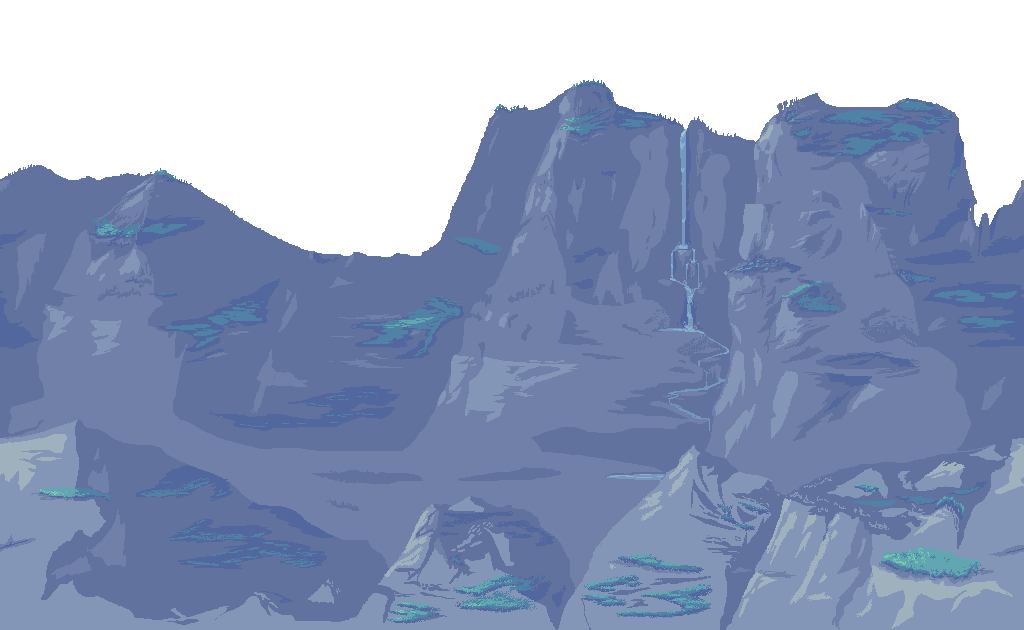
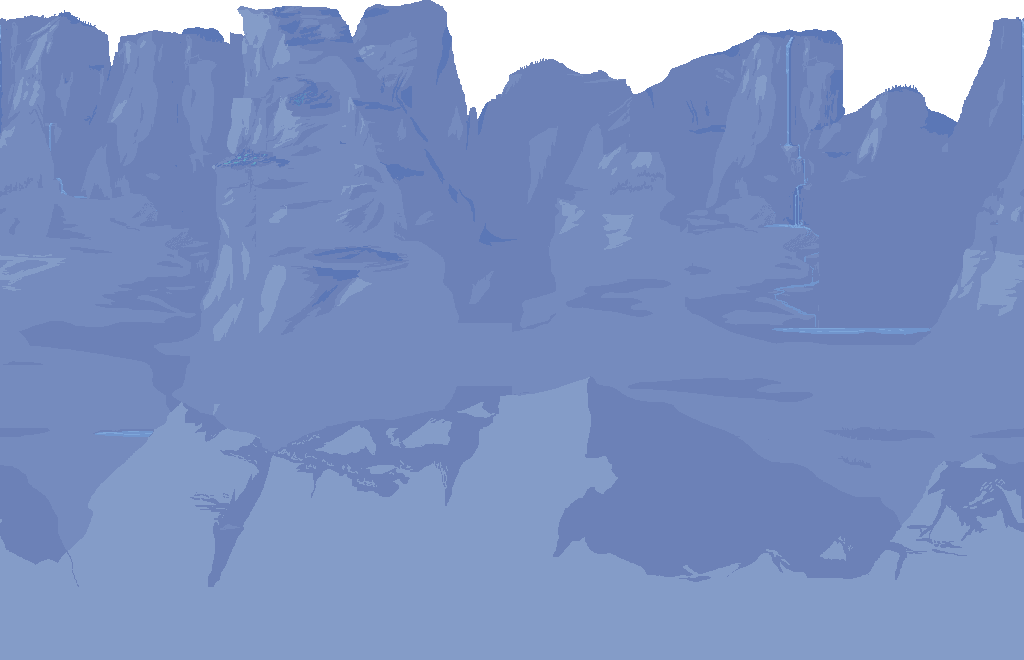
Fix backgrounds.

diff --git a/source/main.py b/source/main.py
@@ -623,13 +623,13 @@ def draw_interactive_block_hover() -> None:
 def draw_menu_background() -> None:
 	menu_background_speed = 0
 	for background in range(len(menu_backgrounds[menu_background_number])):
-		menu_background_width = menu_surfaces[background].get_width()
-		menu_background_height = menu_surfaces[background].get_height()
+		menu_background_width = menu_surfaces[background][int(menu_backgrounds[menu_background_number][background]["frame"] / menu_backgrounds[menu_background_number][background]["delay"])].get_width()
+		menu_background_height = menu_surfaces[background][int(menu_backgrounds[menu_background_number][background]["frame"] / menu_backgrounds[menu_background_number][background]["delay"])].get_height()
 		menu_background_speed += 8 / len(menu_backgrounds[menu_background_number])
 		if menu_background_width - menu_backgrounds[menu_background_number][background]["position"] * menu_background_speed < 0:
 			menu_backgrounds[menu_background_number][background]["position"] = 0
 		for x in range(math.ceil(commons.WINDOW_WIDTH * 2 / menu_background_width + 1)):
-			commons.screen.blit(menu_surfaces[background], (x * menu_background_width - menu_backgrounds[menu_background_number][background]["position"] * menu_background_speed, commons.WINDOW_HEIGHT - menu_background_height + menu_backgrounds[menu_background_number][background]["offset"]))
+			commons.screen.blit(menu_surfaces[background][int(menu_backgrounds[menu_background_number][background]["frame"] / menu_backgrounds[menu_background_number][background]["delay"])], (x * menu_background_width - menu_backgrounds[menu_background_number][background]["position"] * menu_background_speed, commons.WINDOW_HEIGHT - menu_background_height + menu_backgrounds[menu_background_number][background]["offset"]))
 		if (len(menu_backgrounds[menu_background_number][background]["image"]) - 1) * menu_backgrounds[menu_background_number][background]["delay"] <= menu_backgrounds[menu_background_number][background]["frame"]:
 			menu_backgrounds[menu_background_number][background]["frame"] = 0
 		else:
@@ -727,25 +727,27 @@ menu_backgrounds: list[list[MenuImages]] = [
 	],
 	[
 		{"image": ["background_0.png"], "offset": 0, "frame": 0, "delay": 1, "position" : 0},
-		{"image": ["background_1.png"], "offset": 100, "frame": 0, "delay": 1, "position" : 0},
-		{"image": ["background_2.png", "background_3.png", "background_4.png"], "offset": 225, "frame": 0, "delay": 20, "position" : 0}
+		{"image": ["background_1.png", "background_2.png", "background_3.png"], "offset": 100, "frame": 0, "delay": 20, "position" : 0},
+		{"image": ["background_4.png", "background_5.png", "background_6.png"], "offset": 225, "frame": 0, "delay": 20, "position" : 0}
 	],
 	[
 		{"image": ["background_0.png"], "offset": 0, "frame": 0, "delay": 1, "position" : 0},
-		{"image": ["background_1.png"], "offset": 100, "frame": 0, "delay": 1, "position" : 0},
-		{"image": ["background_2.png", "background_3.png", "background_4.png"], "offset": 225, "frame": 0, "delay": 20, "position" : 0},
+		{"image": ["background_1.png", "background_2.png", "background_3.png"], "offset": 100, "frame": 0, "delay": 20, "position" : 0},
+		{"image": ["background_4.png", "background_5.png", "background_6.png"], "offset": 225, "frame": 0, "delay": 20, "position" : 0},
 		{"image": ["background_5.png"], "offset": 200, "frame": 0, "delay": 1, "position" : 0}
 	]
 ]
 
 menu_background_number = random.randint(0, len(menu_backgrounds) - 1)
 menu_background_directory = f"assets/images/backgrounds/menu_backgrounds/background_{menu_background_number}"
-menu_surfaces: list[pygame.Surface] = []
+menu_surfaces: list[list[pygame.Surface]] = []
 for background in menu_backgrounds[menu_background_number]:
+	animation: list[pygame.Surface] = []
 	for path in background["image"]:
 		menu_background_image = pygame.image.load(f"{menu_background_directory}/{path}").convert_alpha()
-		menu_surfaces.append(menu_background_image)
+		animation.append(menu_background_image)
 		background["position"] = random.randint(0, menu_background_image.get_width())
+	menu_surfaces.append(animation)
 
 
 LIGHT_RENDER_DISTANCE_X = int((commons.WINDOW_WIDTH * 0.5) / commons.BLOCK_SIZE) + 9

diff --git a/source/projectile.py b/source/projectile.py
@@ -20,11 +20,10 @@ import surface_manager
 	Stores information required to update and draw a single Projectile instance
 -----------------------------------------------------------------------------------------------------------------"""
 class Projectile:
-	def __init__(self, position, velocity, projectile_id, source, damage, knockback, crit, bounce_num, trail, image, max_life=5, gravity=commons.GRAVITY, drag=0.99):
+	def __init__(self, position, velocity, source, damage, knockback, crit, bounce_num, trail, image, max_life=5, gravity=commons.GRAVITY, drag=0.99):
 		self.position = position
 		self.velocity = velocity
 		self.angle = math.atan2(velocity[1], velocity[0])
-		self.projectile_id = projectile_id
 		self.source = source
 		self.damage = damage
 		self.knockback = knockback
@@ -142,7 +141,6 @@ class Projectile:
 	-----------------------------------------------------------------------------------------------------------------"""
 	def draw(self):
 		angle = math.atan2(self.velocity[1], -self.velocity[0]) * 180 / math.pi + 90
-		surf = surface_manager.projectiles[self.projectile_id].copy()
 		surf = shared_methods.rotate_surface(self.image, angle)
 		commons.screen.blit(surf, (self.rect.left - entity_manager.camera_position[0] + commons.WINDOW_WIDTH * 0.5, self.rect.top - entity_manager.camera_position[1] + commons.WINDOW_HEIGHT * 0.5))
 		if commons.HITBOXES:

diff --git a/source/surface_manager.py b/source/surface_manager.py
@@ -5,7 +5,6 @@ tile_masks: list[pygame.Surface] = []
 misc_gui: list[pygame.Surface] = []
 backgrounds: list[pygame.Surface] = []
 walls: list[pygame.Surface] = []
-projectiles: list[pygame.Surface] = []
 hair: list[pygame.Surface] = []
 special_tiles: list[pygame.Surface] = []
 torsos: list[pygame.Surface] = []
@@ -49,17 +48,6 @@ def load_background_surfaces():
 		surf.blit(background_image, (-i, 0))
 		surf = pygame.transform.scale(surf, (4096, 1676))
 		backgrounds.append(surf)
-
-def load_projectile_surfaces():
-	global projectiles
-	projectile_tileset_image = pygame.image.load("assets/images/projectileTileset.png").convert()
-	projectiles = []
-	for j in range(10):
-		for i in range(10):
-			surf = pygame.Surface((16, 16))
-			surf.blit(projectile_tileset_image, (-i * 16, -j * 16))
-			surf.set_colorkey((255, 0, 255))
-			projectiles.append(surf)
 
 
 def load_hair_surfaces():
@@ -141,7 +129,6 @@ def compile_background_images():  # creates a larger surf compiled with backgrou
 load_tile_mask_surfaces()
 load_misc_gui_surfaces()
 load_background_surfaces()
-load_projectile_surfaces()
 load_hair_surfaces()
 load_head_surfaces()
 load_new_hair_surfaces()

diff --git a/source/entity_manager.py b/source/entity_manager.py
@@ -328,7 +328,7 @@ def spawn_projectile(position, angle, weapon_item, ammo_item_id, source):
 			is_crit = True
 
 		# Hack until we have projectile data loaded from the tool
-		projectiles.append(Projectile(position, velocity, 0, source, total_damage, knockback, is_crit, ricochet_amount, "arrow", image, gravity=ammo_gravity_modifier, drag=ammo_drag))
+		projectiles.append(Projectile(position, velocity, source, total_damage, knockback, is_crit, ricochet_amount, "arrow", image, gravity=ammo_gravity_modifier, drag=ammo_drag))
 
 
 def add_message(text: str, color: tuple[int, int, int], life: float=5.0, outline_color: tuple[int, int, int]=(0, 0, 0)):
